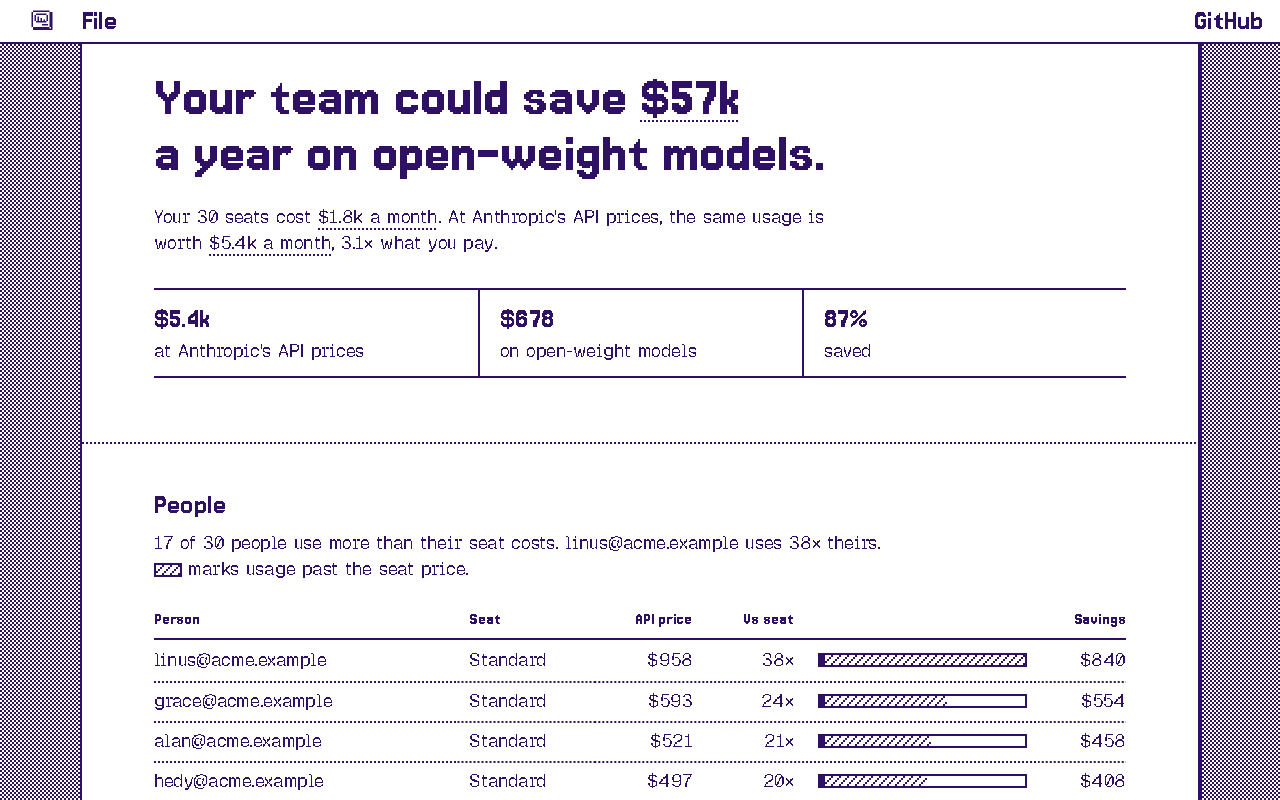
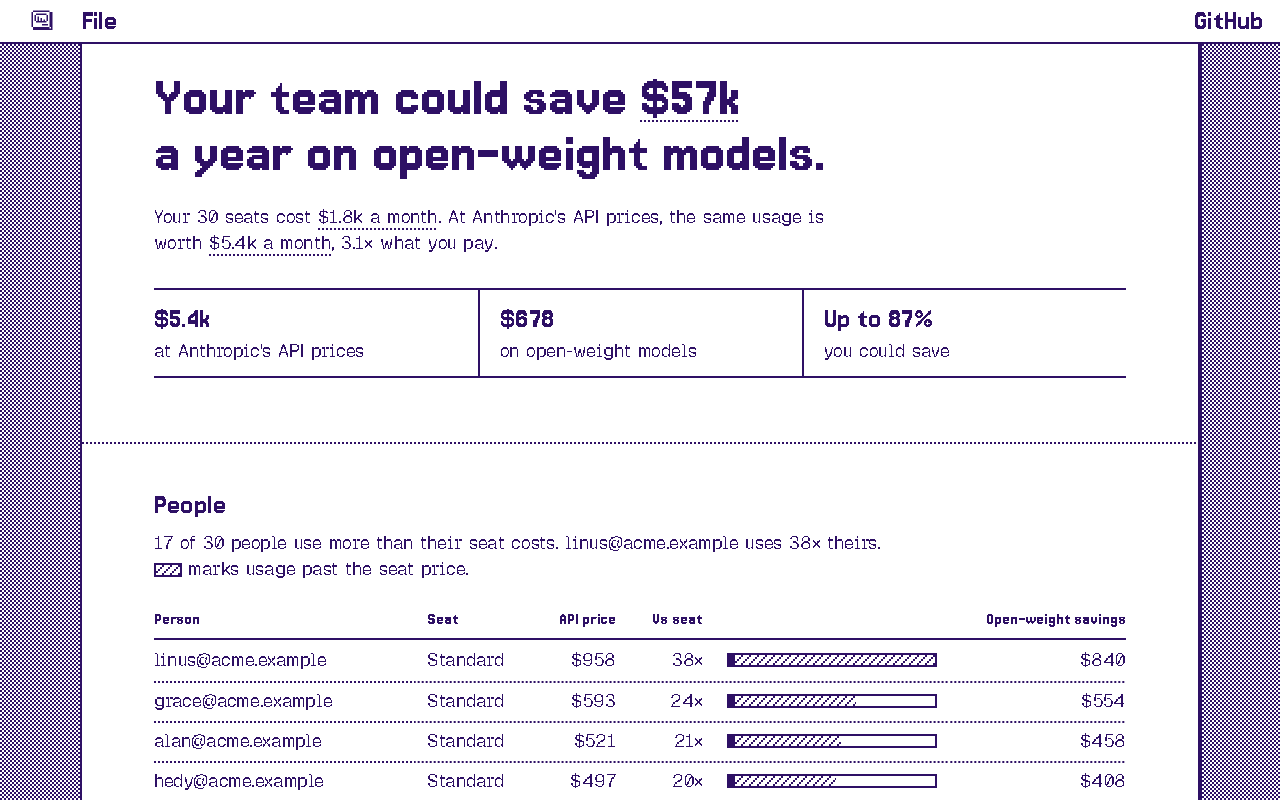
feat(extension): clearer report columns and grouped model families
Columns read API price, Open-weight cost, and Open-weight savings. Models of one family share a row (Claude Opus 5.5, 5). The savings figure reads "Up to 87%". Providers link to their sites without bars, models.dev is a link, and the closing keeps only Download CSV.

diff --git a/extension/src/view.ts b/extension/src/view.ts
@@ -31,6 +31,29 @@ function times(n: number): string {
   return n < 0.1 ? "<0.1×" : `${n < 10 ? n.toFixed(1) : Math.round(n)}×`;
 }
 
+function byFamily(rows: Row[]): Row[] {
+  const families = new Map<string, Row[]>();
+  for (const row of rows) {
+    const family = row.label.replace(/ \d[\d.]*$/, "");
+    families.set(family, [...(families.get(family) ?? []), row]);
+  }
+  return [...families]
+    .map(([family, members]): Row => {
+      const total = (key: "requests" | "tokens" | "price" | "alt") => members.reduce((n, m) => n + m[key], 0);
+      const versions = members.map((m) => m.label.slice(family.length + 1)).sort((a, b) => Number(b) - Number(a));
+      const replacements = [...new Set(members.flatMap((m) => m.replacement?.split(" / ") ?? []))];
+      return {
+        label: members.length === 1 ? (members[0]?.label ?? family) : `${family} ${versions.join(", ")}`,
+        requests: total("requests"),
+        tokens: total("tokens"),
+        price: total("price"),
+        alt: total("alt"),
+        replacement: replacements.join(" / ") || undefined,
+      };
+    })
+    .sort((a, b) => b.price - a.price);
+}
+
 function savings(row: Row): string {
   return row.price >= row.alt ? usd(row.price - row.alt) : `${usd(row.alt - row.price)} more`;
 }
@@ -116,7 +139,7 @@ ${subsidy}
 <div class="figures">
 ${figure("info-price", `<span class="mid">${usd(hero.price)}</span><span>at Anthropic's API prices</span>`)}
 ${figure("info-alt", `<span class="mid">${usd(hero.alt)}</span><span>on open&#8209;weight models</span>`)}
-${figure("info-year", `<span class="mid">${percent(hero.percent)}</span><span>saved</span>`)}
+${figure("info-year", `<span class="mid">Up to ${percent(hero.percent)}</span><span>you could save</span>`)}
 </div>`;
 }
 
@@ -135,7 +158,7 @@ function people(report: Report): string {
   return `<section class="section" aria-labelledby="people-title">
 <h2 id="people-title">People</h2>
 <p>${count(over)} of ${count(rows.length)} people use more than their seat costs.${top?.overSeat && top.overSeat > 1 ? ` ${esc(top.label)} uses ${times(top.overSeat)} theirs.` : ""} <span class="legend"><span class="zebra-chip"></span> marks usage past the seat price.</span></p>
-<table class="sheet"><thead><tr><th scope="col">Person</th><th scope="col">Seat</th><th scope="col" class="num">API price</th><th scope="col" class="num">Vs seat</th><th scope="col" class="bar"><span class="sr">Usage against the seat price</span></th><th scope="col" class="num">Savings</th></tr></thead>
+<table class="sheet"><thead><tr><th scope="col">Person</th><th scope="col">Seat</th><th scope="col" class="num">API price</th><th scope="col" class="num">Vs seat</th><th scope="col" class="bar"><span class="sr">Usage against the seat price</span></th><th scope="col" class="num">Open&#8209;weight savings</th></tr></thead>
 <tbody>${body}</tbody></table>
 ${rows.length > PEOPLE_SHOWN ? `<button class="button more" type="button" data-action="more">Show All ${count(rows.length)}</button>` : ""}
 </section>`;
@@ -145,7 +168,8 @@ function productsAndModels(report: Report): string {
   const products = report.byProduct ?? [];
   const total = report.hero.price;
   const product = products[0];
-  const model = report.models[0];
+  const models = byFamily(report.models);
+  const model = models[0];
   const insight = [
     product && total > 0 ? `${esc(product.label)} is ${percent(product.price / total)} of the bill.` : "",
     model?.replacement ? `${esc(model.label)} costs the most, ${usd(model.price)}. ${esc(model.replacement)} does the same work for ${usd(model.alt)}.` : "",
@@ -153,32 +177,32 @@ function productsAndModels(report: Report): string {
   const productRows = products
     .map((row) => `<tr><td class="name">${esc(row.label)}</td><td class="num">${usd(row.price)}</td><td class="bar">${bar(total > 0 ? row.price / total : 0)}</td><td class="num">${usd(row.alt)}</td><td class="num">${savings(row)}</td></tr>`)
     .join("");
-  const modelRows = report.models
+  const modelRows = models
     .map((row) => `<tr><td class="name">${esc(row.label)}</td><td class="num">${count(row.requests)}</td><td class="num">${usd(row.price)}</td><td>${esc(row.replacement ?? "")}</td><td class="num">${usd(row.alt)}</td><td class="num">${savings(row)}</td></tr>`)
     .join("");
   return `<section class="section" aria-labelledby="models-title">
 <h2 id="models-title">Products and models</h2>
 <p>${insight}</p>
-${products.length > 0 ? `<table class="sheet"><thead><tr><th scope="col">Product</th><th scope="col" class="num">API price</th><th scope="col" class="bar"><span class="sr">Share of the bill</span></th><th scope="col" class="num">Open&#8209;weight</th><th scope="col" class="num">Savings</th></tr></thead><tbody>${productRows}</tbody></table>` : ""}
-<table class="sheet"><thead><tr><th scope="col">Model</th><th scope="col" class="num">Requests</th><th scope="col" class="num">API price</th><th scope="col">Replaced by</th><th scope="col" class="num">Open&#8209;weight</th><th scope="col" class="num">Savings</th></tr></thead><tbody>${modelRows}</tbody></table>
+${products.length > 0 ? `<table class="sheet"><thead><tr><th scope="col">Product</th><th scope="col" class="num">API price</th><th scope="col" class="bar"><span class="sr">Share of the bill</span></th><th scope="col" class="num">Open&#8209;weight cost</th><th scope="col" class="num">Open&#8209;weight savings</th></tr></thead><tbody>${productRows}</tbody></table>` : ""}
+<table class="sheet"><thead><tr><th scope="col">Model</th><th scope="col" class="num">Requests</th><th scope="col" class="num">API price</th><th scope="col">Replaced by</th><th scope="col" class="num">Open&#8209;weight cost</th><th scope="col" class="num">Open&#8209;weight savings</th></tr></thead><tbody>${modelRows}</tbody></table>
 </section>`;
 }
 
 function providers(report: Report): string {
   const priced = report.providers.flatMap((c) => (c.kind === "priced" ? [c] : []));
   const best = priced[0];
-  const most = Math.max(1, ...priced.map((c) => c.savings));
   const rows = report.providers
-    .map((c) =>
-      c.kind === "priced"
-        ? `<tr><td class="name">${esc(c.name)}</td><td class="bar">${bar(c.savings / most)}</td><td class="num">${usd(c.savings)}</td><td class="num">${percent(c.percent)}</td></tr>`
-        : `<tr><td class="name">${esc(c.name)}</td><td colspan="3">${esc(comparisonText(c))}</td></tr>`,
-    )
+    .map((c) => {
+      const name = `<td class="name">${c.url ? `<a href="${esc(c.url)}" target="_blank">${esc(c.name)}</a>` : esc(c.name)}</td>`;
+      return c.kind === "priced"
+        ? `<tr>${name}<td class="num">${usd(c.savings)}</td><td class="num">${percent(c.percent)}</td></tr>`
+        : `<tr>${name}<td colspan="2">${esc(comparisonText(c))}</td></tr>`;
+    })
     .join("");
   return `<section class="section" aria-labelledby="providers-title">
 <h2 id="providers-title">Providers</h2>
 <p>${best ? `The same plan at each provider. ${esc(best.name)} saves the most, ${usd(best.savings)} over ${report.days} days.` : "No provider lists these models."}</p>
-<table class="sheet"><thead><tr><th scope="col">Provider</th><th scope="col" class="bar"><span class="sr">Savings</span></th><th scope="col" class="num">Savings</th><th scope="col" class="num">Saved</th></tr></thead><tbody>${rows}</tbody></table>
+<table class="sheet"><thead><tr><th scope="col">Provider</th><th scope="col" class="num">Open&#8209;weight savings</th><th scope="col" class="num">Saved</th></tr></thead><tbody>${rows}</tbody></table>
 </section>`;
 }
 
@@ -194,7 +218,7 @@ function forecastAndMethod(report: Report): string {
   const notes = [
     `The open&#8209;weight plan: ${esc(report.hero.detail ?? report.hero.name)}.`,
     "Both sides price the same tokens: uncached input, output, cache reads, and cache writes.",
-    "Prices come from models.dev and each provider's public rates.",
+    'Prices come from <a href="https://models.dev" target="_blank">models.dev</a> and each provider\'s public rates.',
     report.seats?.kind === "seats" && report.seats.estimated ? "Seats are estimated: anyone who used Fable counts as Premium, everyone else as Standard." : "",
     report.unpriced.length > 0
       ? `No price for ${esc(report.unpriced.map((u) => `${u.model} (${count(u.requests)} requests)`).join(", "))}, so it's left out of both sides.`
@@ -203,7 +227,7 @@ function forecastAndMethod(report: Report): string {
   return `<section class="section" aria-labelledby="forecast-title">
 <h2 id="forecast-title">Forecast and method</h2>
 <p>At the pace of the last ${report.days} days.</p>
-<table class="sheet"><thead><tr><th scope="col"><span class="sr">Period</span></th><th scope="col" class="num">API price</th><th scope="col" class="num">Open&#8209;weight</th><th scope="col" class="num">Savings</th></tr></thead><tbody>
+<table class="sheet"><thead><tr><th scope="col"><span class="sr">Period</span></th><th scope="col" class="num">API price</th><th scope="col" class="num">Open&#8209;weight cost</th><th scope="col" class="num">Open&#8209;weight savings</th></tr></thead><tbody>
 ${periods.map(([label, cost]) => `<tr><td class="name">${label}</td><td class="num">${usd(cost.price)}</td><td class="num">${usd(cost.alt)}</td><td class="num">${usd(cost.price - cost.alt)}</td></tr>`).join("")}
 </tbody></table>
 <ul class="notes">${notes.map((note) => `<li>${note}</li>`).join("")}</ul>
@@ -223,11 +247,11 @@ function infos(report: Report): string {
       ["Usage", `${count(report.users ?? 0)} people, ${count(report.requests)} requests, ${count(report.tokens)} tokens.`],
       ["Math", "Each token type times its API rate per million tokens."],
     ]),
-    info("info-alt", "Open-weight price", [
+    info("info-alt", "Open-weight cost", [
       ["Amount", `${exactUsd(hero.alt)} for the same tokens.`],
       ["Plan", esc(hero.detail ?? hero.name)],
     ]),
-    info("info-year", "Savings", [
+    info("info-year", "Open-weight savings", [
       ["Period", `${exactUsd(hero.price - hero.alt)} over ${report.days} days, ${percent(hero.percent)} of the API price.`],
       ["Month", `${exactUsd(hero.month)}, at the same pace.`],
       ["Year", `${exactUsd(hero.year)}, at the same pace.`],
@@ -266,7 +290,7 @@ ${productsAndModels(report)}
 ${providers(report)}
 ${forecastAndMethod(report)}
 <section class="closing" aria-labelledby="closing-title"><h2 id="closing-title">What will you do when the subsidies end?</h2>
-<div class="actions"><a class="button" href="${SITE}" target="_blank">costmaxxing.dev</a>${download(csv, true)}</div></section>
+<div class="actions">${download(csv, true)}</div></section>
 </div>
 </article>${infos(report)}`;
 }

diff --git a/extension/test/view.test.ts b/extension/test/view.test.ts
@@ -1,6 +1,6 @@
 import assert from "node:assert/strict";
 import { test } from "node:test";
-import { usd } from "@costmaxxing/core";
+import { buildReport, parseModelsDev, parseSpendReport, priceBook, usd } from "@costmaxxing/core";
 import snapshot from "@costmaxxing/core/snapshot" with { type: "json" };
 import { MEMBERS_CSV, SPEND_CSV } from "../../core/test/fixtures.ts";
 import { type Step, teamReport } from "../src/team.ts";
@@ -42,4 +42,15 @@ test("the memo shows core's numbers, escapes the org, and every figure opens an 
     for (const id of targets) assert.ok(html.includes(`id="${id}"`), id);
     assert.equal(html.includes("What will you do when the subsidies end?"), full);
   }
+});
+
+test("models of one family share a row, newest version first", () => {
+  const opus = SPEND_CSV.split("\n").find((line) => line.includes("claude-opus-5-5")) ?? "";
+  const rows = parseSpendReport(`${SPEND_CSV}\n${opus.replace("claude-opus-5-5", "claude-opus-5")}`);
+  const report = buildReport({
+    dataset: { kind: "spend", rows, from: "2026-09-03", to: "2026-10-02", org: "Acme", recent: true },
+    book: priceBook(parseModelsDev(snapshot)),
+  });
+  const html = memoView(report, { href: "blob:x", filename: "x.csv" }, true);
+  assert.equal(html.match(/<td class="name">Claude Opus[^<]*</g)?.join(), '<td class="name">Claude Opus 5.5, 5<');
 });

diff --git a/extension/src/report.css b/extension/src/report.css
@@ -269,6 +269,9 @@ a {
   .sheet .bar {
     display: none;
   }
+  .sheet th {
+    white-space: normal;
+  }
 }
 
 @media (prefers-reduced-motion: reduce) {
